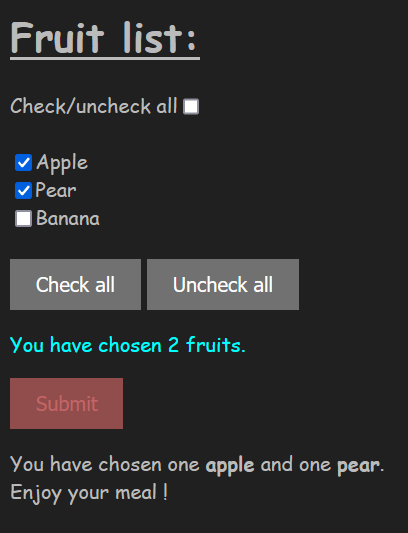
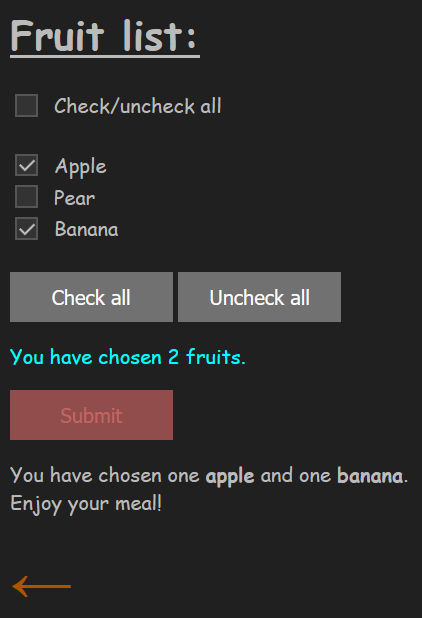
Add files via upload

diff --git a/index.html b/index.html
@@ -1,24 +1,25 @@
 <!DOCTYPE html>
-<html lang="en">
+<html lang="fr">
 <head>
   <meta charset="utf-8">
   <meta name="viewport" content="width=device-width, user-scalable=no">
   <link rel="stylesheet" href="fruits.css">
-  <title>Fruit list</title>
+  <title>Fruit list | PouletEnSlip</title>
   <script src="script.js"></script>
 </head>
 <body>
-  <h1><u>Fruit list:</u></h1>
+  <h1>Fruit list:</h1>
   <form>
-    <label>Check/uncheck all</label><input type="checkbox" id="cocher" name="check" onclick="cocherDecocher(this.checked);"><br><br>
-    <input type="checkbox" id="apple" name="case" class="fruits" onclick="changerTexte1()">Apple<br>
-    <input type="checkbox" id="pear" name="case" class="fruits" onclick="changerTexte1()">Pear<br>
-    <input type="checkbox" id="banana" name="case" class="fruits" onclick="changerTexte1()">Banana<br><br>
+    <input type="checkbox" id="cocher" name="check" onclick="cocherDecocher(this.checked);"><label>Check/uncheck all</label><br><br>
+    <input type="checkbox" id="apple" name="case" class="fruits" onclick="changerTexte1()"><label>Apple</label><br>
+    <input type="checkbox" id="pear" name="case" class="fruits" onclick="changerTexte1()"><label>Pear</label><br>
+    <input type="checkbox" id="banana" name="case" class="fruits" onclick="changerTexte1()"><label>Banana</label><br><br>
     <input type="button" id="bouton1" name="bouton" value="Check all" onclick="boutonCocher()">
     <input type="button" id="bouton2" name="bouton" value="Uncheck all" onclick="boutonDecocher()" disabled="true">
     <p id="texte1" style="color:red">You didn't choose a fruit...</p>
     <input type="button" id="bouton3" name="bouton" value="Submit" onclick="valider()" disabled="true">
     <p id="texte2"></p>
   </form>
+  <a href="../">&#x2190;</a>
 </body>
 </html>

diff --git a/fruits.css b/fruits.css
@@ -4,16 +4,29 @@ body {
   color:#bbb;
 }
 
+h1 {
+	text-decoration: underline;
+}
+
+a {
+	text-decoration: none;
+	color: #AA5500;
+	font-size: 50px;
+}
+
+a:hover {
+	color: white;
+}
+
 #bouton1, #bouton2 {
 	background-color: #717171;
 	border: 1px solid #717171;
 	color: white;
-	padding: 10px 20px;
-	text-align: center;
-	text-decoration: none;
-	display: inline-block;
+	width: 130px;
+	height: 40px;
 	font-size: 16px;
 	cursor: pointer;
+	transition: 0.2s;
 }
 
 #bouton1:hover, #bouton2:hover {
@@ -25,12 +38,11 @@ body {
 	background-color: #914c4c;
 	border: 1px solid #914c4c;
 	color: white;
-	padding: 10px 20px;
-	text-align: center;
-	text-decoration: none;
-	display: inline-block;
+	width: 130px;
+	height: 40px;
 	font-size: 16px;
 	cursor: pointer;
+	transition: 0.2s;
 }
 
 #bouton3:hover {
@@ -44,4 +56,38 @@ body {
 
 #bouton3:disabled {
 	color: #c26565;
+}
+
+input[type=checkbox] {
+	position: relative;
+	cursor: pointer;
+	-moz-appearance: initial;
+	vertical-align: middle;
+}
+
+input[type=checkbox]:before {
+	content: "";
+	display: block;
+	width: 15px;
+	height: 15px;
+	border: 2px solid #555;
+	background-color: #333;
+}
+
+input[type=checkbox]:checked:after {
+	content: "";
+	position: absolute;
+	display: block;
+	width: 5px;
+	height: 10px;
+	border: solid rgb(200, 200, 200);
+	border-width: 0 2px 2px 0;
+	transform: rotate(45deg);
+	top: 2px;
+	left: 6px;
+}
+
+label {
+	padding-left: 10px;
+	vertical-align: middle;
 }
